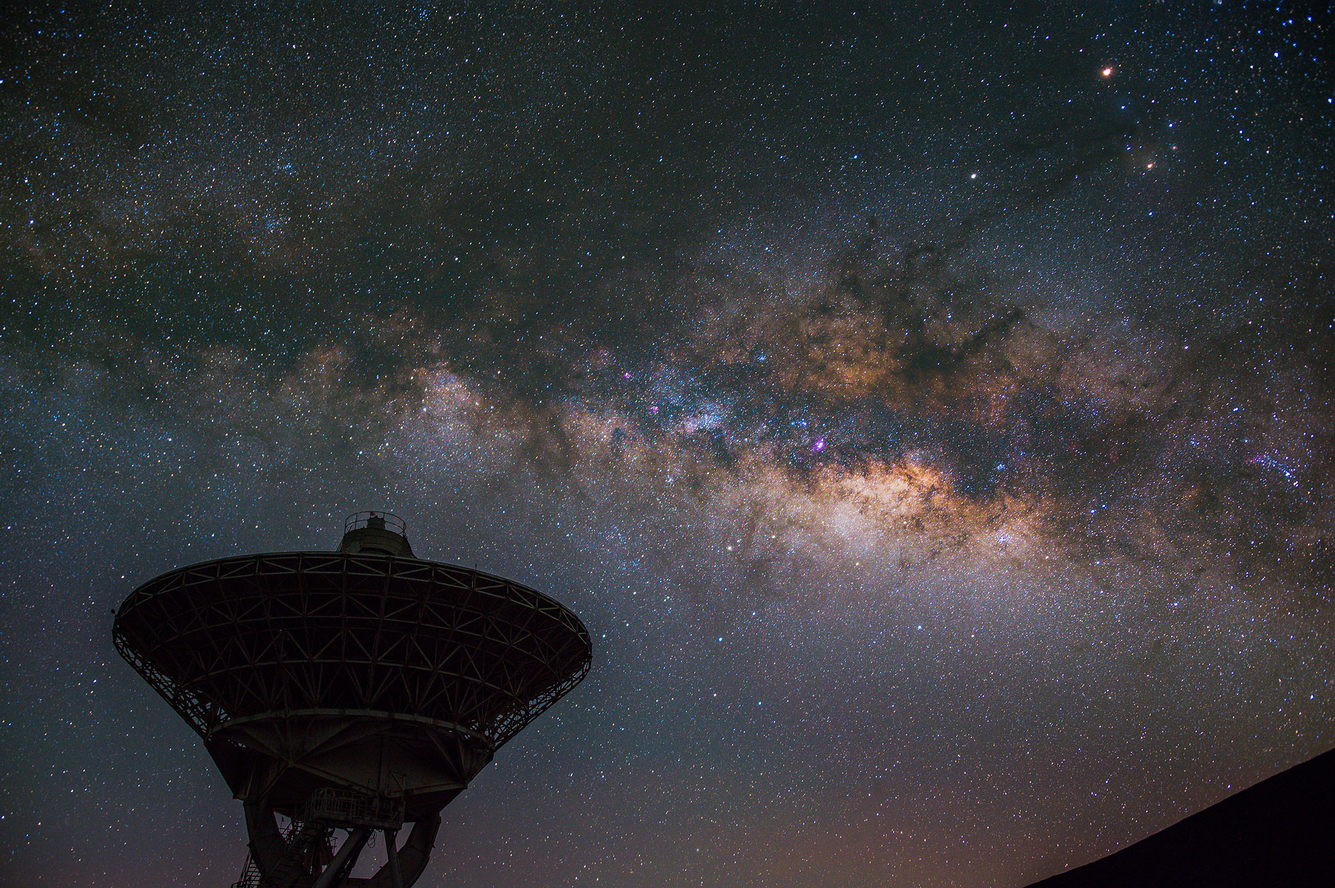
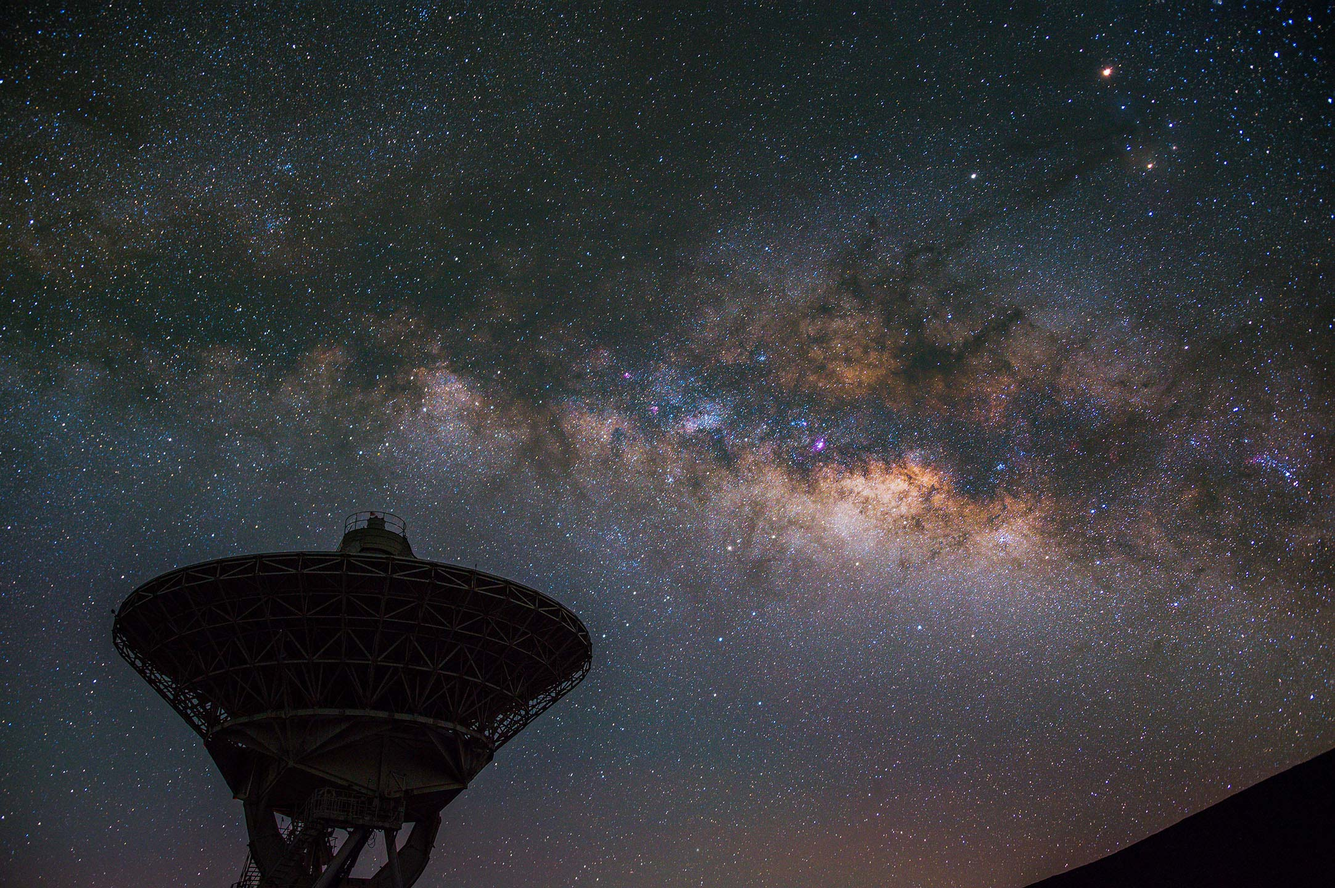
reducing sizes and compressing images

diff --git a/publications.html b/publications.html
@@ -14,7 +14,7 @@ href="https://ui.adsabs.harvard.edu/#search/fq=%7B!type%3Daqp%20v%3D%24fq_proper
 <ul class="publications" href='http://adsabs.harvard.edu/abs/2016ApJ...830...46F'>
 
   	<li onclick="location.href='http://adsabs.harvard.edu/abs/2018arXiv180501453F';">
-	<img src="images/2d_gap.png">
+	<img src="images/2d_gap.jpg">
 	<h4>CKS VII. Precise Planet Radii Leveraging Gaia DR2 Reveal the Stellar Mass Dependence of the Planet Radius Gap</h4>
 	<p>
 	<b>Fulton, Benjamin J.</b> and Petigura, Erik A. <br>

diff --git a/assets/css/main.css b/assets/css/main.css
@@ -1536,7 +1536,7 @@
 			transition: opacity 0.325s ease-in-out, transform 0.325s ease-in-out;
 			padding: 4.5rem 2.5rem 1.5rem 2.5rem ;
 			position: relative;
-			width: 40rem;
+			width: 50rem;
 			max-width: 100%;
 			background-color: rgba(27, 31, 34, 0.85);
 			border-radius: 4px;
